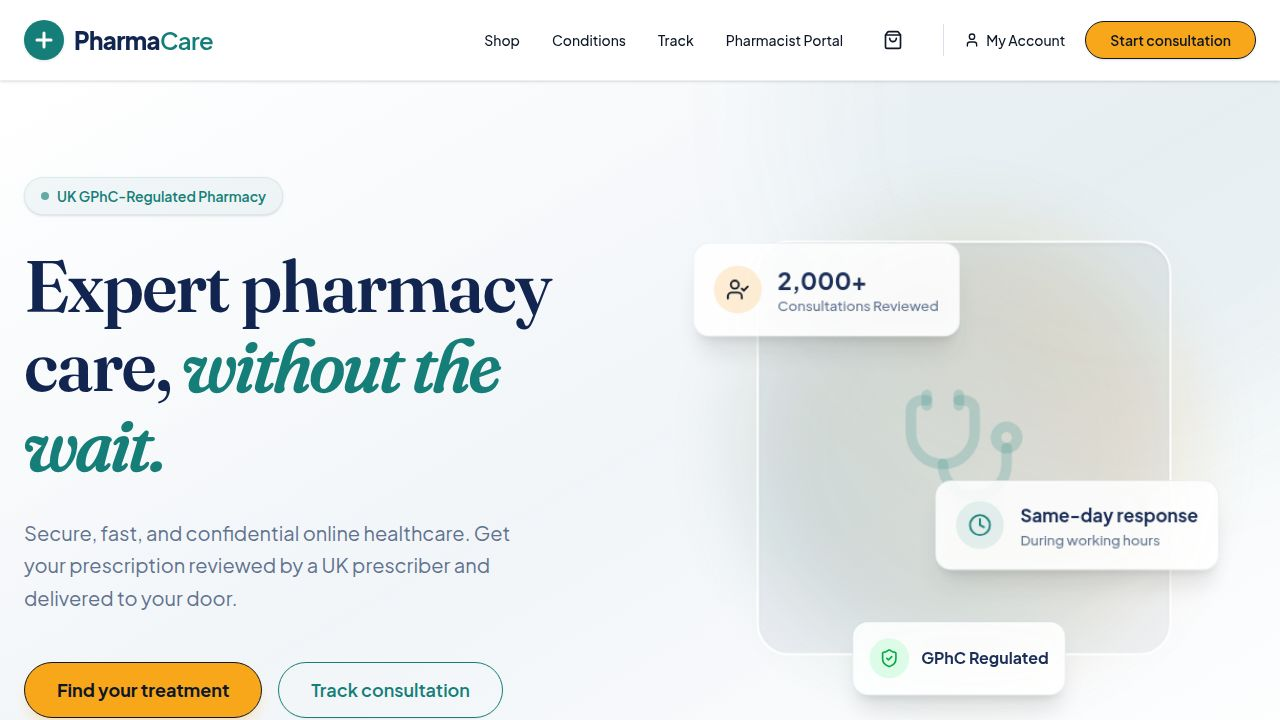
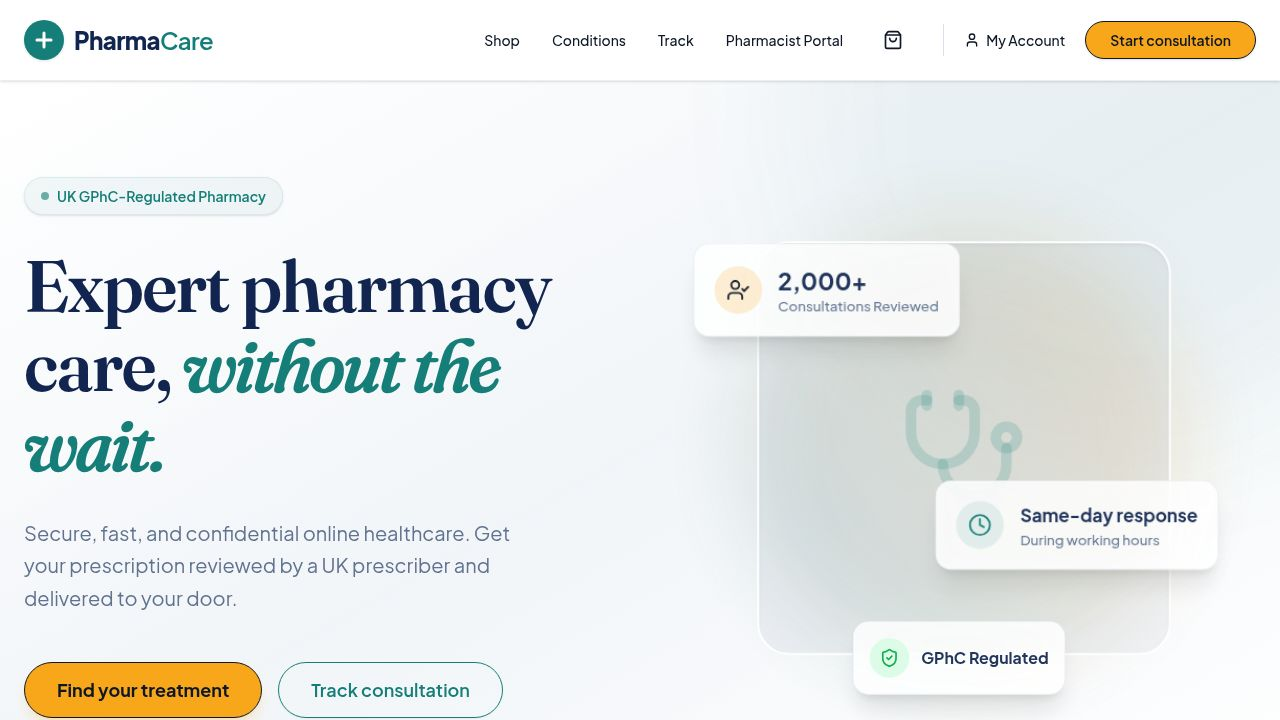
Improve payment and order management workflows
Update payment routes to correctly handle Stripe session URLs and defer stock decrements until payment confirmation. Enhance order editing to adjust stock levels based on quantity changes for paid orders, including validation for available stock.

Replit-Commit-Author: Agent
Replit-Commit-Session-Id: 06bac6a2-e0a7-4c3e-8e3a-a4bdb6709f99
Replit-Commit-Checkpoint-Type: full_checkpoint
Replit-Commit-Event-Id: 9e3f9c59-4867-4ed7-b712-19c836f2987f
Replit-Commit-Screenshot-Url: https://storage.googleapis.com/screenshot-production-us-central1/58164482-ccad-45cf-a3ef-ac773de3d42c/06bac6a2-e0a7-4c3e-8e3a-a4bdb6709f99/oCbyXHR
Replit-Helium-Checkpoint-Created: true

diff --git a/artifacts/api-server/src/routes/orders.ts b/artifacts/api-server/src/routes/orders.ts
@@ -141,11 +141,15 @@ router.post("/orders", async (req, res): Promise<void> => {
 
   await db.insert(orderItemsTable).values(itemRows.map(r => ({ ...r, orderId })));
 
-  // Decrement stock
-  for (const r of itemRows) {
-    await db.update(productsTable)
-      .set({ stock: sql`${productsTable.stock} - ${r.quantity}` })
-      .where(eq(productsTable.id, r.productId));
+  // Decrement stock only when the order is actually paid right now (demo mode).
+  // For Stripe-pending orders, stock is decremented on payment confirmation
+  // in /orders/:id/verify-payment so that abandoned checkouts don't drain inventory.
+  if (!stripeOn) {
+    for (const r of itemRows) {
+      await db.update(productsTable)
+        .set({ stock: sql`${productsTable.stock} - ${r.quantity}` })
+        .where(eq(productsTable.id, r.productId));
+    }
   }
 
   // Create delivery
@@ -351,11 +355,23 @@ router.patch("/admin/orders/:id", requirePharmacist, async (req, res): Promise<v
     ];
   }
 
-  // Apply item changes (qty updates and removals)
+  // Apply item changes (qty updates and removals).
+  // Only adjust stock for orders that are already paid — for unpaid orders
+  // stock has not been decremented yet (see /orders POST and /verify-payment).
+  const orderIsPaid = order.paymentStatus === "paid" || order.paymentStatus === "paid_demo";
   let recomputeTotals = false;
   if (Array.isArray(b.removeItemIds) && b.removeItemIds.length > 0) {
     for (const itemId of b.removeItemIds) {
-      await db.delete(orderItemsTable).where(and(eq(orderItemsTable.id, itemId), eq(orderItemsTable.orderId, id)));
+      const [item] = await db.select().from(orderItemsTable).where(and(eq(orderItemsTable.id, itemId), eq(orderItemsTable.orderId, id))).limit(1);
+      if (item) {
+        await db.delete(orderItemsTable).where(eq(orderItemsTable.id, itemId));
+        if (orderIsPaid) {
+          // Return stock to inventory
+          await db.update(productsTable)
+            .set({ stock: sql`${productsTable.stock} + ${item.quantity}` })
+            .where(eq(productsTable.id, item.productId));
+        }
+      }
     }
     recomputeTotals = true;
   }
@@ -364,8 +380,23 @@ router.patch("/admin/orders/:id", requirePharmacist, async (req, res): Promise<v
       const qty = Math.max(1, Math.min(20, Math.floor(Number(it.quantity) || 1)));
       const [existing] = await db.select().from(orderItemsTable).where(and(eq(orderItemsTable.id, it.id), eq(orderItemsTable.orderId, id))).limit(1);
       if (existing && existing.quantity !== qty) {
+        const delta = qty - existing.quantity; // positive => need more stock
+        if (orderIsPaid && delta > 0) {
+          // Validate available stock before increasing fulfilled qty
+          const [prod] = await db.select().from(productsTable).where(eq(productsTable.id, existing.productId)).limit(1);
+          if (!prod || prod.stock < delta) {
+            res.status(409).json({ error: `Not enough stock for ${existing.productName}. Available: ${prod?.stock ?? 0}` });
+            return;
+          }
+        }
         const newLineTotal = existing.unitPriceGbp * qty;
         await db.update(orderItemsTable).set({ quantity: qty, lineTotalGbp: newLineTotal }).where(eq(orderItemsTable.id, it.id));
+        if (orderIsPaid && delta !== 0) {
+          // delta>0 => decrement stock; delta<0 => return stock
+          await db.update(productsTable)
+            .set({ stock: sql`${productsTable.stock} - ${delta}` })
+            .where(eq(productsTable.id, existing.productId));
+        }
         recomputeTotals = true;
       }
     }

diff --git a/artifacts/api-server/src/routes/payments.ts b/artifacts/api-server/src/routes/payments.ts
@@ -1,6 +1,6 @@
 import { Router, type IRouter } from "express";
-import { db, ordersTable, orderItemsTable, deliveriesTable } from "@workspace/db";
-import { eq } from "drizzle-orm";
+import { db, ordersTable, orderItemsTable, deliveriesTable, productsTable } from "@workspace/db";
+import { eq, sql } from "drizzle-orm";
 import { getStripeClient, isStripeEnabled } from "../lib/stripe";
 
 const router: IRouter = Router();
@@ -62,13 +62,18 @@ router.post("/orders/:id/checkout-session", async (req, res): Promise<void> => {
     });
   }
 
+  // Append session_id correctly whether successUrl already has a query string or not.
+  const successWithSession = successUrl.includes("?")
+    ? `${successUrl}&session_id={CHECKOUT_SESSION_ID}`
+    : `${successUrl}?session_id={CHECKOUT_SESSION_ID}`;
+
   const session = await stripe.checkout.sessions.create({
     mode: "payment",
     payment_method_types: ["card"],
     line_items: lineItems,
     customer_email: order.customerEmail,
     metadata: { orderId, orderNumber: order.orderNumber },
-    success_url: `${successUrl}?session_id={CHECKOUT_SESSION_ID}`,
+    success_url: successWithSession,
     cancel_url: cancelUrl,
   });
 
@@ -125,6 +130,15 @@ router.post("/orders/:id/verify-payment", async (req, res): Promise<void> => {
       })
       .where(eq(ordersTable.id, orderId))
       .returning();
+
+    // Decrement stock now that payment is confirmed (deferred from order creation
+    // when Stripe is enabled, so abandoned checkouts don't drain inventory).
+    const orderItems = await db.select().from(orderItemsTable).where(eq(orderItemsTable.orderId, orderId));
+    for (const it of orderItems) {
+      await db.update(productsTable)
+        .set({ stock: sql`${productsTable.stock} - ${it.quantity}` })
+        .where(eq(productsTable.id, it.productId));
+    }
 
     // Initialise delivery tracking now that payment is confirmed
     const [delivery] = await db.select().from(deliveriesTable).where(eq(deliveriesTable.orderId, orderId)).limit(1);

diff --git a/replit.md b/replit.md
@@ -99,11 +99,31 @@ Allergy: Allergic rhinitis
 - `POST /api/admin/comms-log`, `GET /api/admin/comms-log?email=…`
 - `GET /api/admin/patients/:email/timeline`
 
+## Payments (Stripe + demo fallback)
+
+- `STRIPE_SECRET_KEY` env enables real Stripe Checkout Sessions. Without it the app runs a demo path that marks new orders `paid_demo` immediately so the full flow stays usable.
+- `GET /api/payments/status` → `{ stripeEnabled }`; the checkout page uses this to pick the path.
+- `POST /api/orders/:id/checkout-session` creates a Stripe Checkout Session and returns its URL. The `success_url` is the order-confirmation page with `&session_id={CHECKOUT_SESSION_ID}` appended (handles existing query strings correctly).
+- `POST /api/orders/:id/verify-payment` is called from `OrderConfirmation.tsx` when `?session_id=` is present; it confirms with Stripe and on success marks the order `paid` AND decrements stock (deferred from order creation so abandoned Stripe checkouts don't drain inventory).
+- Demo mode (no Stripe key) decrements stock at order creation time, since the order is paid_demo immediately.
+
+## Admin product & order CRUD (T001/T002)
+
+- Admin Products page (`/dashboard/products`) is mobile-responsive: card grid on `<md` with the same inline-edit, image-replace, duplicate, and delete actions as the desktop table.
+- `DELETE /api/admin/products/:id` soft-deletes by default; `?hard=true` hard-deletes (FK-safe — returns 409 if the product is referenced by any order). The UI dialog offers both.
+- `POST /api/admin/products/:id/duplicate` creates a `<slug>-copy` deactivated draft for editing.
+- `PATCH /api/admin/orders/:id` supports editing shipping address, customer details, qty changes, item removal (returns 400 if it would empty the order), customer-facing notes, and an append-only `internalNotes` thread (jsonb array). Stock is adjusted by qty delta on paid orders, with a 409 if there isn't enough stock to bump quantities.
+
+## Catalog
+
+- 60 active products spanning 12 categories (Cold & Flu, Pain Relief, Vitamins, First Aid, Allergy, Skin, Digestive, Foot Care, Eye Care, Sleep, Oral Care, Women's Health). Newer SKUs use `/products/_placeholder.svg`; pharmacist can swap any image via the admin Image Edit dialog.
+
 ## Future Plans
 
 - Real delivery integration (Royal Mail / DPD APIs) replacing MockProvider
 - Push notifications for new orders/consultations on mobile
 - Patient accounts beyond guest checkout (history, saved addresses)
-- Payment processing (Stripe)
+- Stripe webhook for out-of-band payment confirmation (currently uses verify-payment on success page)
+- Move pharmacist auth from base64 bearer token to signed JWT or server sessions
 
 See the `pnpm-workspace` skill for workspace structure, TypeScript setup, and package details.